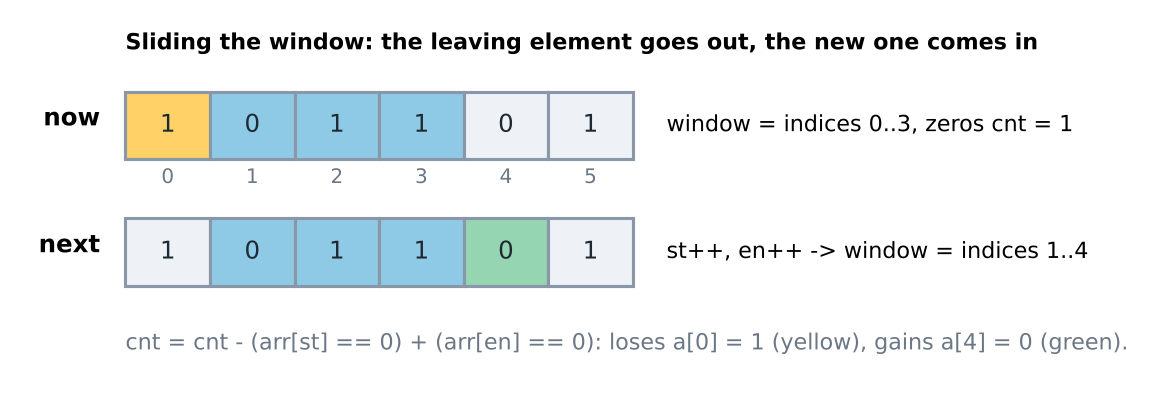
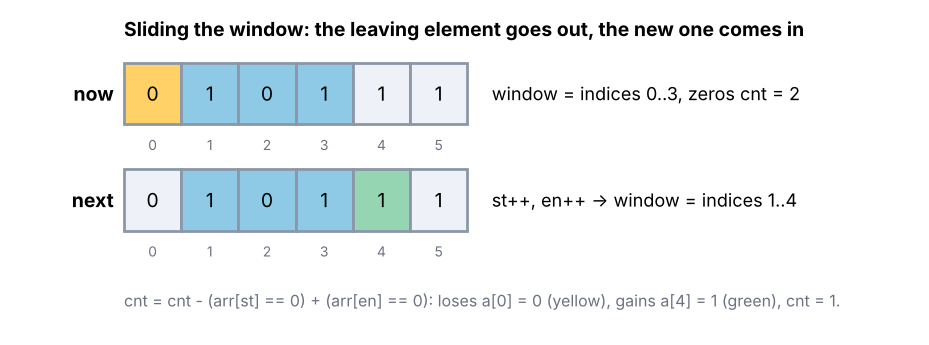
Phase 5: redraw figures to match the text, restore original wording
Claude-Session: https://claude.ai/code/session_01DKbVp84QMWBuC6smFgtL72

Changed region(s): [[0.0312, 0.1739, 0.9365, 0.7536], [0.0936, 0.058, 0.9053, 0.1449], [0.0936, 0.8116, 0.9677, 0.8986]]

diff --git a/PROGRESS.md b/PROGRESS.md
@@ -273,7 +273,7 @@ FILL_SHORT_TOPICS_PLAN.md for the completed topics 0.1–3.8. Full report: `bank
 | 3.8 | short | short | 14 → 19 | 19 → 22 | yes |
 
 ## Questions for Saurabh
-- **Phase 5 verification questions: resolved on your behalf.** Decisions: 0.2 self-test now says 381 MB (his table and the "arr[10^8]" line stay; the note after it corrects them); 0.4 look-alikes stay on earlier cards (the validator forbids a later-topic pointer); 0.6 his `unordered_map` line and the theorem order stay; 1.2 keeps prefix XOR, and the 3D checkpoint stays as a marked stretch; 1.3 gets no extra links; 1.4 keeps the four ladder rungs, and the unreadable "5+3+2+1 = 11" grouping and the greedy-halving left column stay as his drawn items; 1.5 keeps Taxi with the corrected hint, and "1900 ranges" and fig 15 stay as his; 1.6 now states that the cards use the mirror (rightmost) rule; 1.7 keeps his `is_pow_of_two`; 2.1 product-of-divisors line corrected to exponents 0, 1, 2 (sum 24), and his "prime moduli only" line stays with the correction after it; 2.3 keeps abc156_d and cf-476B; 2.4 keeps his sentence and the three Codeforces dp-tagged problems; 3.1 tally sentence has the A count dropped. The three figure mismatches are fixed: `fig36_ternary_step` was redrawn so that f(m2) is not above f(m1) (the text rule was right), and the text next to `fig30_sliding` (1 leaves, 0 enters, cnt 1 to 2) and `fig15_abs_plots` (points 1, 3, 7, 10, sums 13 and 15) now matches its figure. Nothing needs you.
+- **Phase 5 verification questions: resolved on your behalf.** Decisions: 0.2 self-test now says 381 MB (his table and the "arr[10^8]" line stay; the note after it corrects them); 0.4 look-alikes stay on earlier cards (the validator forbids a later-topic pointer); 0.6 his `unordered_map` line and the theorem order stay; 1.2 keeps prefix XOR, and the 3D checkpoint stays as a marked stretch; 1.3 gets no extra links; 1.4 keeps the four ladder rungs, and the unreadable "5+3+2+1 = 11" grouping and the greedy-halving left column stay as his drawn items; 1.5 keeps Taxi with the corrected hint, and "1900 ranges" and fig 15 stay as his; 1.6 now states that the cards use the mirror (rightmost) rule; 1.7 keeps his `is_pow_of_two`; 2.1 product-of-divisors line corrected to exponents 0, 1, 2 (sum 24), and his "prime moduli only" line stays with the correction after it; 2.3 keeps abc156_d and cf-476B; 2.4 keeps his sentence and the three Codeforces dp-tagged problems; 3.1 tally sentence has the A count dropped. The three figure mismatches are fixed: all three figures were redrawn to match the text, which stays as written: `fig36_ternary_step` (f(m2) no longer above f(m1)), `fig30_sliding` (a 0 leaves, a 1 enters, cnt 2 to 1) and `fig15_abs_plots` (points 1, 3, 7, 8, flat at 11). Nothing needs you.
 - **Phase 4 bank additions (M6).** The banks of 4.6 and 4.7 were short (4.6 had one look-alike pair, two checkpoint problems, three review problems and no exam problem; 4.7 had one pair, one checkpoint problem, two review problems and no exam problem), so I added reserved problems with notes, found by research (AtCoder, LeetCode and CSES statements were fetched; Codeforces ones are recalled and marked †, with title and rating checked through the API). 4.6: lc-number-of-ways-to-assign-edge-weights-i/ii (look-alike pair), ac-abc133_f (checkpoint), review cf-739B, ac-abc321_e, cf-1296F, ac-abc201_e, lc-path-existence-queries-in-a-graph-ii, cf-702E, exam lc-minimum-weighted-subgraph-with-the-required-paths-ii. 4.7: cf-711D and cf-659E (look-alike pair), cf-949C and cf-1900E (checkpoint), review cf-1927F, ac-abc266_f, cf-1454E, cf-542C, cf-883G, cf-698B, cf-1131D, exam cf-1547G, drill cf-1276B and lc-disconnect-path. Please spot-check the Codeforces notes. Known weak points: the 4.7 drill has few 4.7 answers (the bank has no reserved drill problems for the topic), cf-962F in the 4.7 ladder needs the blocks between articulation points (marked as a stretch), cf-1131D and cf-883G are weaker fits, and the 4.6 bug catalogue has 11 bugs (the plan says 4–8).
 - **Bank fill (15 short topics).** For each, pick: (1) accept `short`; (2) lower the minimum; (3) merge a narrow pattern into a neighbour; (4) allow another source. My proposals:
   - 0.1: fold `fast-io` into the lesson as a rule and drop the pattern (exam has 1 of 2).
